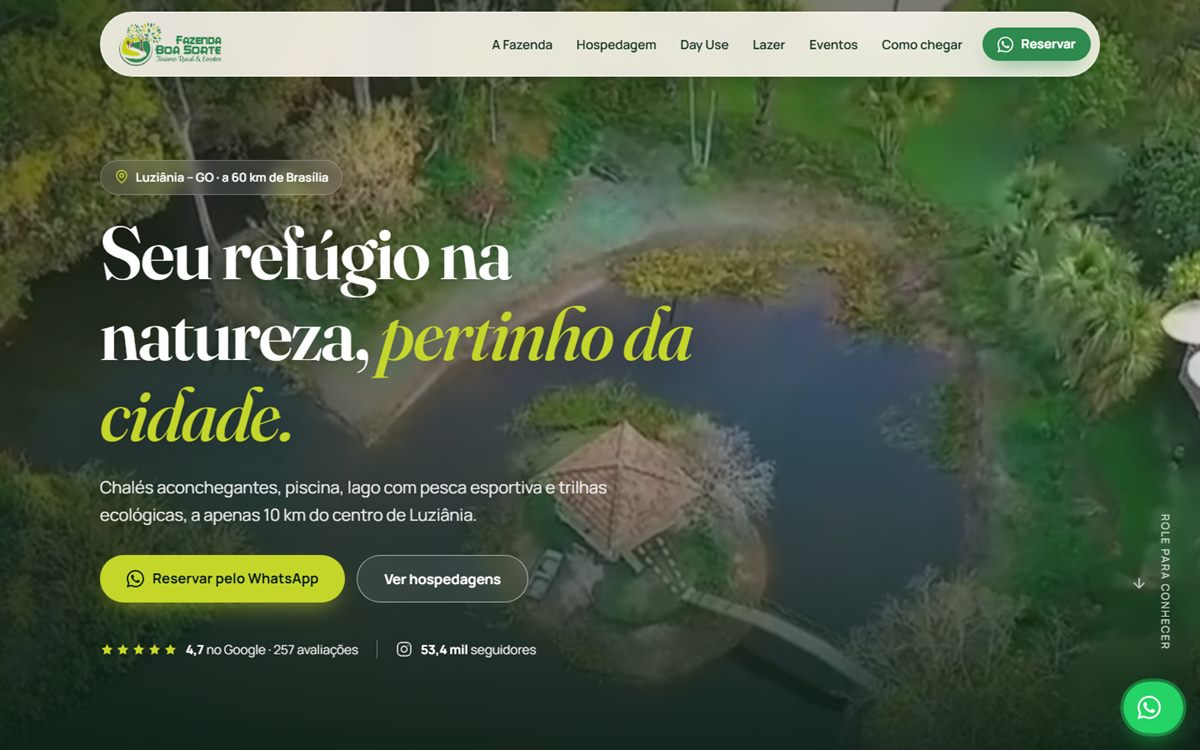
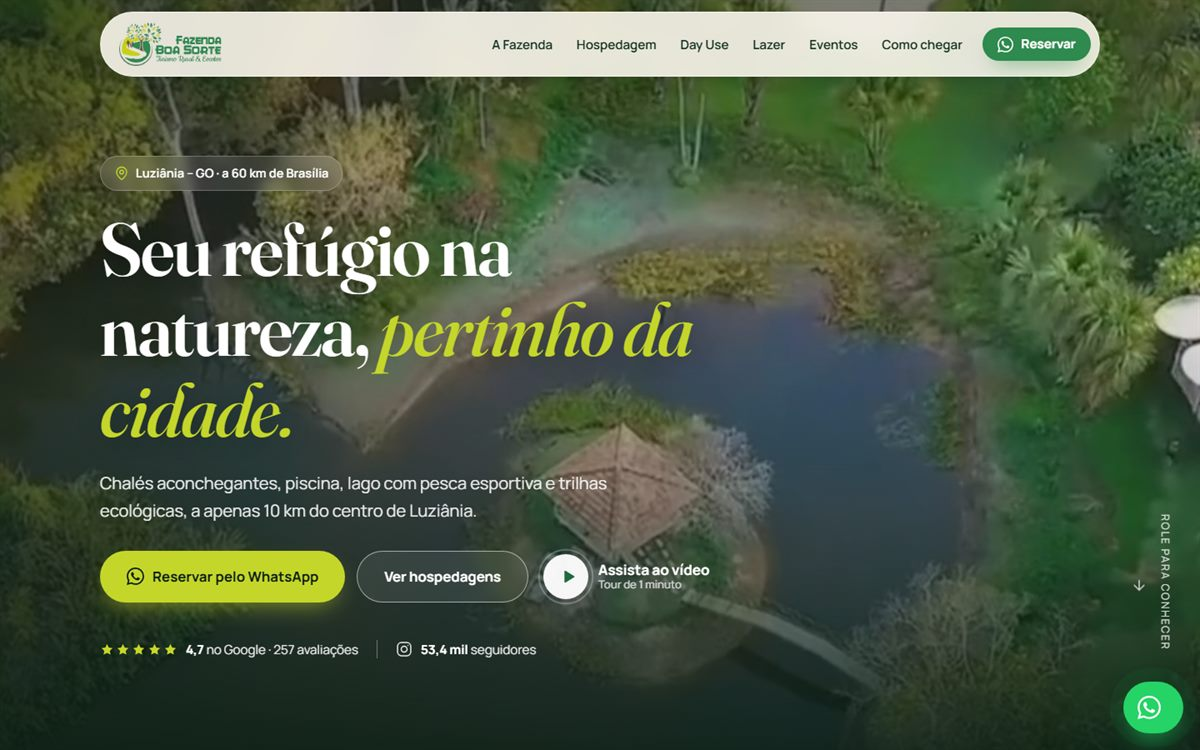
Atualiza a Fazenda Boa Sorte para o domínio próprio
Novo print, link para fazendaboasorteluziania.com.br e remoção do link
do repositório, que agora é privado.

diff --git a/index.html b/index.html
@@ -274,7 +274,7 @@
                 conversa com o cliente ao deploy. Foco em performance, responsividade e conversão via WhatsApp.
                 Clientes incluem Nossa Clínica, Multiclínicas Luziânia, Robô Trance, Fazenda Boa Sorte e Sociedade Espírita Wantuil de Freitas.
               </p>
-              <ul class="tags tags--sm"><li>HTML/CSS/JS</li><li>WordPress</li><li>Elementor</li><li>Vercel</li><li>SEO</li></ul>
+              <ul class="tags tags--sm"><li>HTML/CSS/JS</li><li>WordPress</li><li>Elementor</li><li>Nginx</li><li>SEO</li></ul>
             </div>
           </li>
 
@@ -352,8 +352,8 @@
         <!-- Sites em produção -->
         <div class="projects">
           <article class="project project--feature reveal" data-cat="web">
-            <a class="project__shot" href="https://fazenda-boa-sorte-zeta.vercel.app" target="_blank" rel="noopener">
-              <img src="assets/img/projects/fazenda.jpg" alt="Site da Fazenda Boa Sorte" loading="lazy" width="1200" height="750">
+            <a class="project__shot" href="https://fazendaboasorteluziania.com.br/" target="_blank" rel="noopener">
+              <img src="assets/img/projects/fazenda.jpg?v=2" alt="Site da Fazenda Boa Sorte" loading="lazy" width="1200" height="750">
               <span class="project__live mono">● no ar</span>
             </a>
             <div class="project__body">
@@ -361,12 +361,12 @@
               <h3>Fazenda Boa Sorte</h3>
               <p>
                 Site completo para uma fazenda de turismo rural em Luziânia: hospedagem, day use, eventos, avaliações,
-                FAQ e rotas. Carrossel de acomodações com swipe, vídeo, imagens WebP e reservas direto no WhatsApp.
+                FAQ e rotas. Vídeo de tour, carrossel de acomodações com swipe, imagens WebP e reservas direto no WhatsApp.
+                Desenvolvido do zero e publicado em domínio próprio com servidor Nginx.
               </p>
-              <ul class="tags tags--sm"><li>HTML</li><li>CSS</li><li>JavaScript</li><li>Vercel</li></ul>
+              <ul class="tags tags--sm"><li>HTML</li><li>CSS</li><li>JavaScript</li><li>Nginx</li></ul>
               <div class="project__links">
-                <a href="https://fazenda-boa-sorte-zeta.vercel.app" target="_blank" rel="noopener">Ver site ↗</a>
-                <a href="https://github.com/ElderLuiz/fazenda-boa-sorte" target="_blank" rel="noopener">Código ↗</a>
+                <a href="https://fazendaboasorteluziania.com.br/" target="_blank" rel="noopener">Ver site ↗</a>
               </div>
             </div>
           </article>
